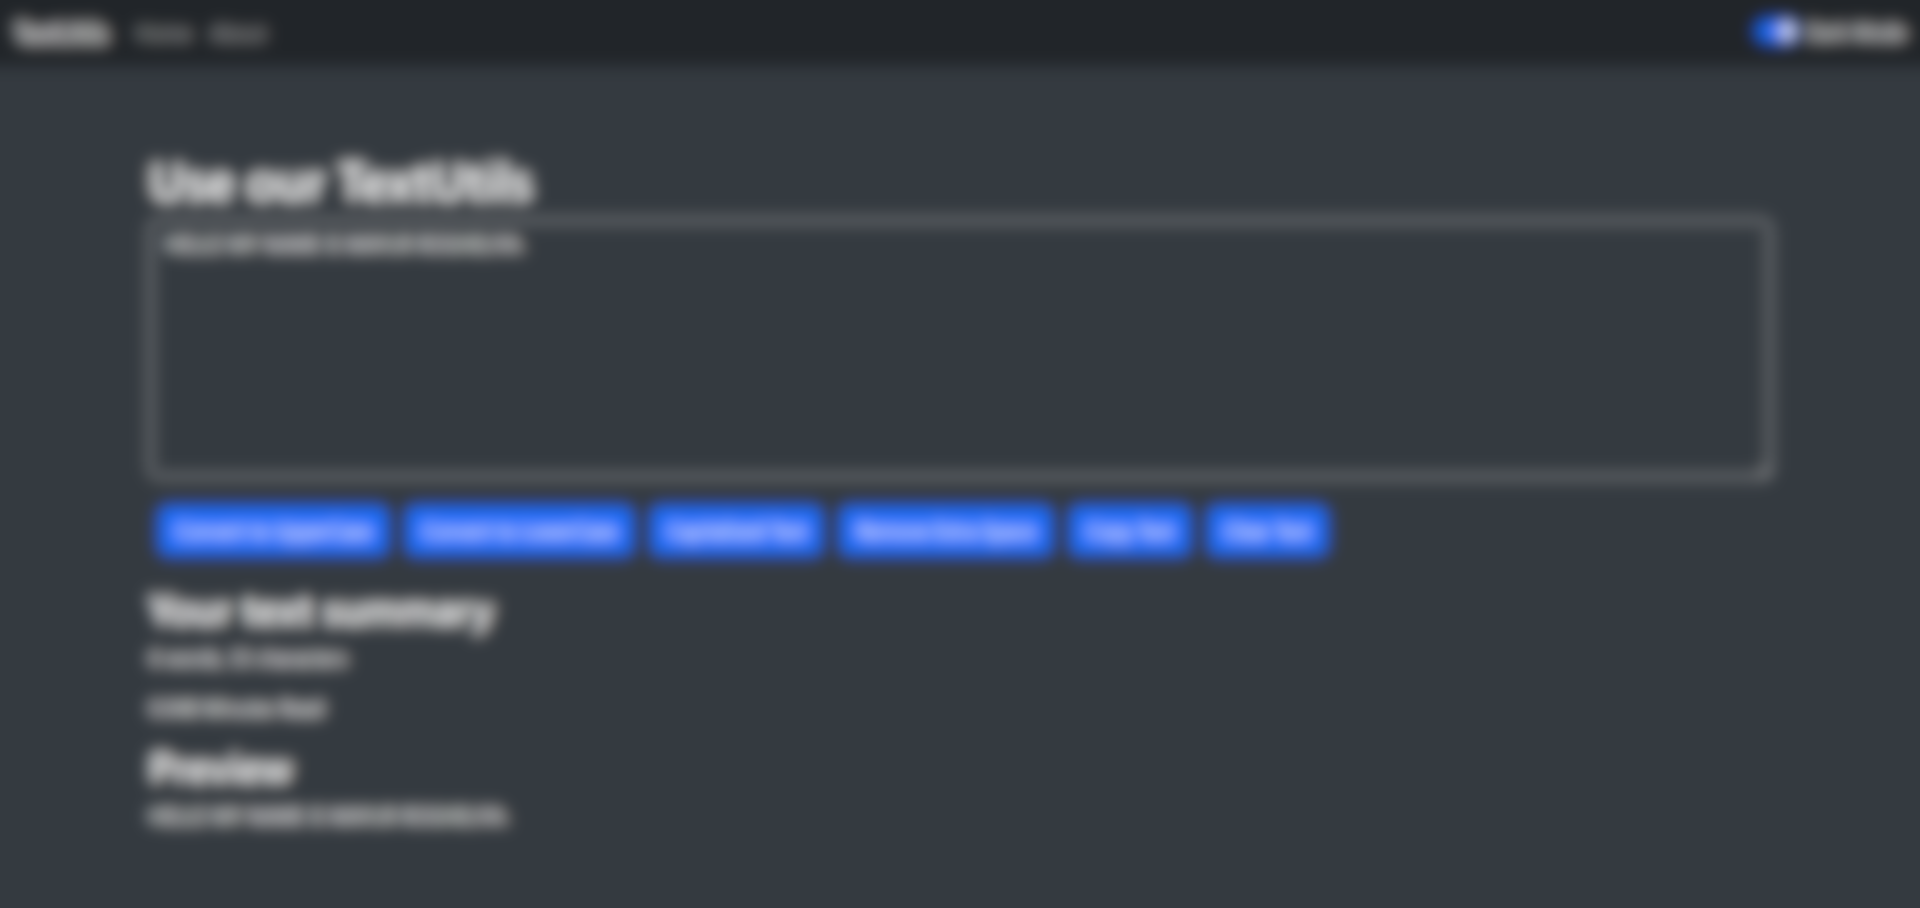
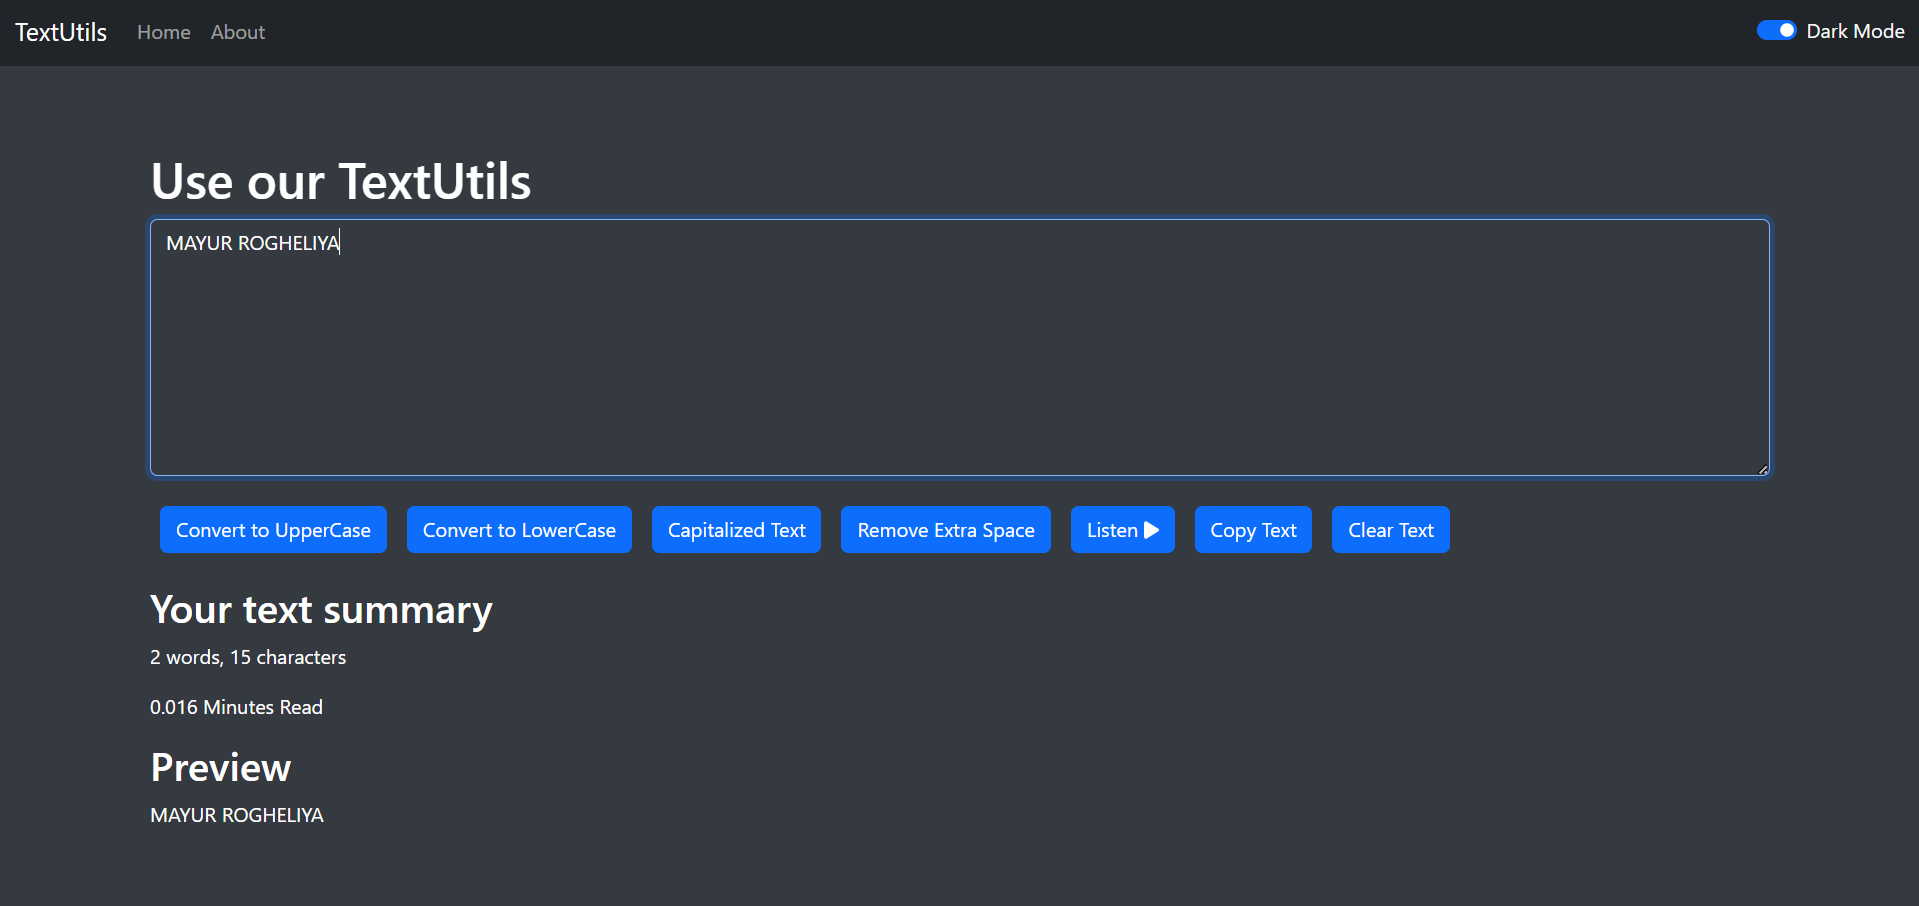
ref: change the ieducation, textutils, and newslio project card image

Changed region(s): [[0.0615, 0.1545, 0.9224, 0.9272], [0.8916, 0.0, 1.0, 0.0618], [0.0, 0.0, 0.1537, 0.0618]]

diff --git a/docs/index.html b/docs/index.html
@@ -195,10 +195,10 @@
                 </h1>
             </div>
             <div class="grid grid-cols-1 sm:grid-cols-2 md:grid-cols-3 gap-8">
-                <!-- Project Card 1 -->
+                <!-- iEducation -->
                 <div
                     class="max-w-sm mx-auto bg-slate-900 rounded-xl shadow-lg overflow-hidden transform hover:scale-105 transition-transform duration-300 border border-slate-700">
-                    <img class="w-full h-48 object-cover" src="img/ieducation.jpg" alt="Project Image">
+                    <img class="w-full h-48 object-cover" src="img/ieducation.png" alt="Project Image">
                     <div class="p-6">
                         <h2 class="text-2xl font-bold text-white mb-2">iEducation</h2>
                         <p class="text-slate-300 text-base mb-4">
@@ -237,7 +237,7 @@
                     </div>
                 </div>
 
-                <!-- Project Card 2 -->
+                <!-- TextUtils -->
                 <div
                     class="max-w-sm mx-auto bg-slate-900 rounded-xl shadow-lg overflow-hidden transform hover:scale-105 transition-transform duration-300 border border-slate-700">
                     <img class="w-full h-48 object-cover" src="img/textutils.png" alt="Project Image">
@@ -277,10 +277,10 @@
                     </div>
                 </div>
 
-                <!-- Project Card 3 -->
+                <!-- NewsLio -->
                 <div
                     class="max-w-sm mx-auto bg-slate-900 rounded-xl shadow-lg overflow-hidden transform hover:scale-105 transition-transform duration-300 border border-slate-700">
-                    <img class="w-full h-48 object-cover" src="img/newslio.jpg" alt="Project Image">
+                    <img class="w-full h-48 object-cover" src="img/newslio.png" alt="Project Image">
                     <div class="p-6">
                         <h2 class="text-2xl font-bold text-white mb-2">NewsLio</h2>
                         <p class="text-slate-300 text-base mb-4">
@@ -312,7 +312,7 @@
                     </div>
                 </div>
 
-                <!-- Project Card 4 -->
+                <!-- QuickExit -->
                 <div
                     class="max-w-sm mx-auto bg-slate-900 rounded-xl shadow-lg overflow-hidden transform hover:scale-105 transition-transform duration-300 border border-slate-700">
                     <img class="w-full h-48 object-fill" src="img/quickexit.png" alt="Project Image">
